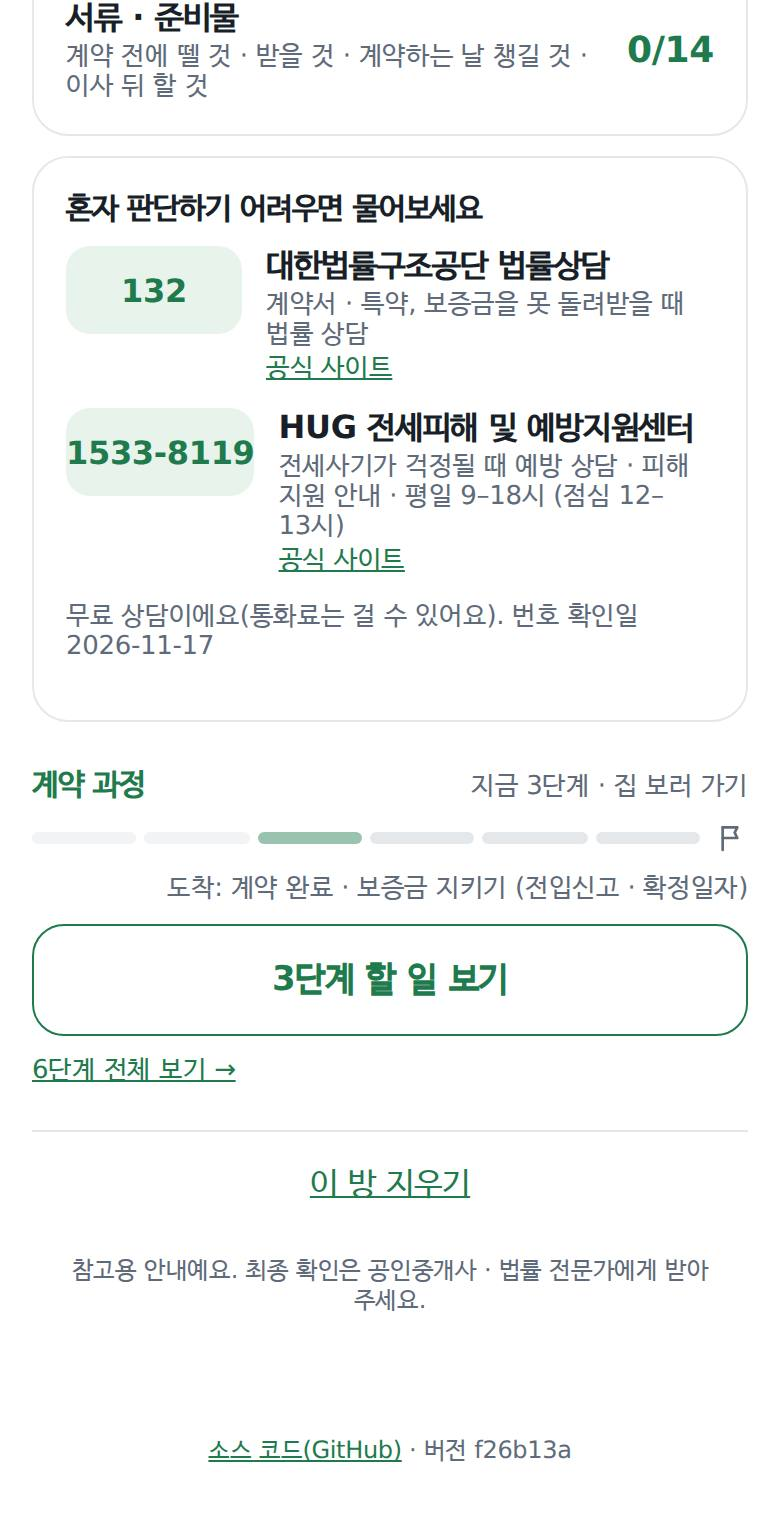
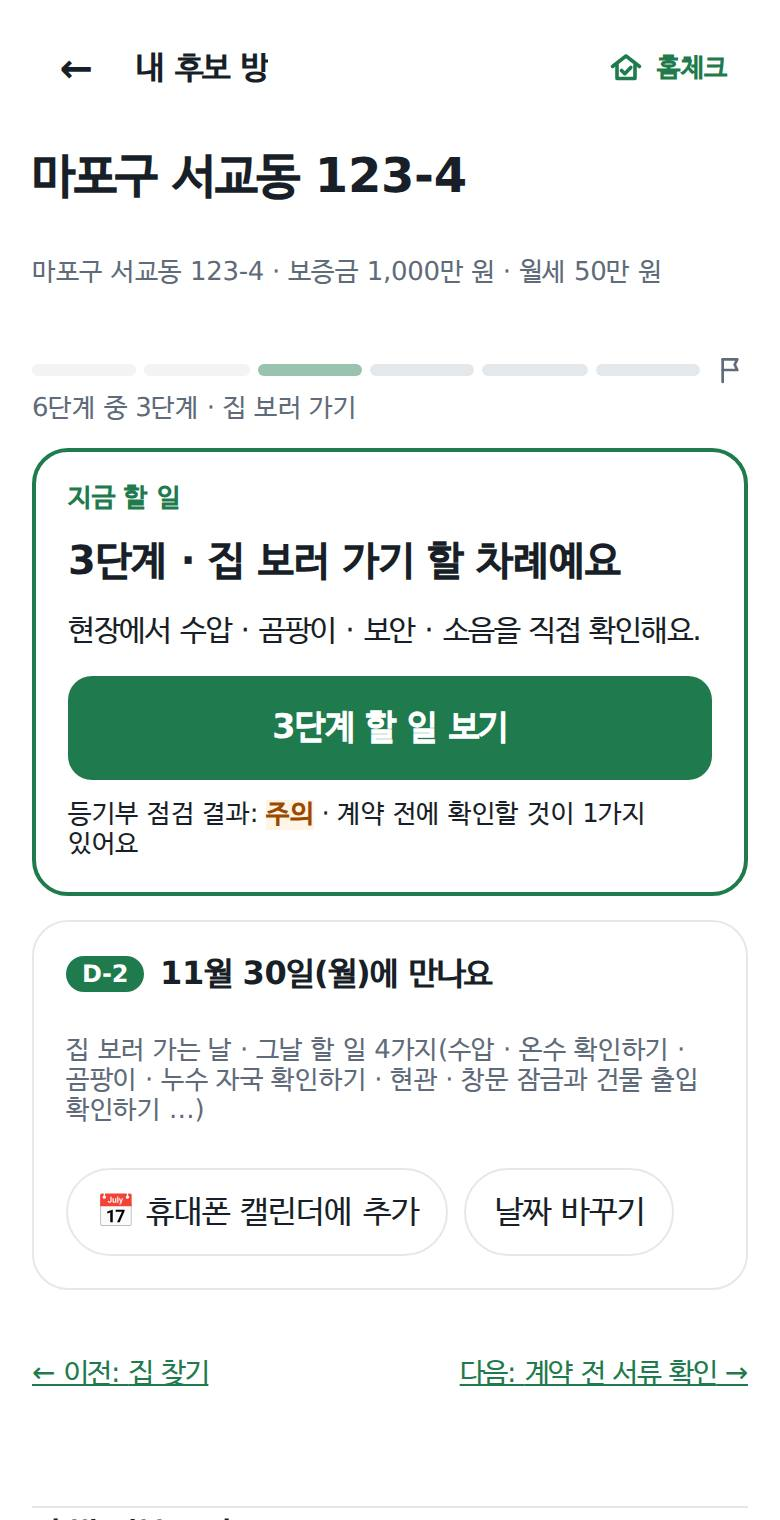
미리보기 화면을 새 방 화면('지금 할 일' 한 장 · 그날 만나요)으로 다시 찍기

diff --git a/app/ui/FlowPreview.tsx b/app/ui/FlowPreview.tsx
@@ -9,7 +9,7 @@ export const SLIDES = [
   { src: "/preview/2-doc.jpg", title: "② 등기부등본 올리기", body: "인터넷등기소에서 뗀 PDF를 올려요. 휴대폰 안에서만 읽어요." },
   { src: "/preview/3-result.jpg", title: "③ 신호등으로 결과 보기", body: "위험 · 주의 · 안전과 가장 먼저 확인할 것 하나를 알려 줘요." },
   { src: "/preview/4-next.jpg", title: "④ 집주인에게 물어볼 말 · 특약", body: "복사해서 바로 보낼 수 있는 문장을 이 방에 맞춰 만들어요." },
-  { src: "/preview/5-steps.jpg", title: "⑤ 계약 완료까지 6단계", body: "지금 몇 단계인지, 전입신고 · 확정일자까지 챙겨요." },
+  { src: "/preview/5-steps.jpg", title: "⑤ 지금 할 일 하나 · 그날 만나요", body: "방마다 지금 할 일 하나만 보여 주고, 다음 날짜를 챙겨요." },
 ] as const;
 
 const INTERVAL_MS = 3200;
